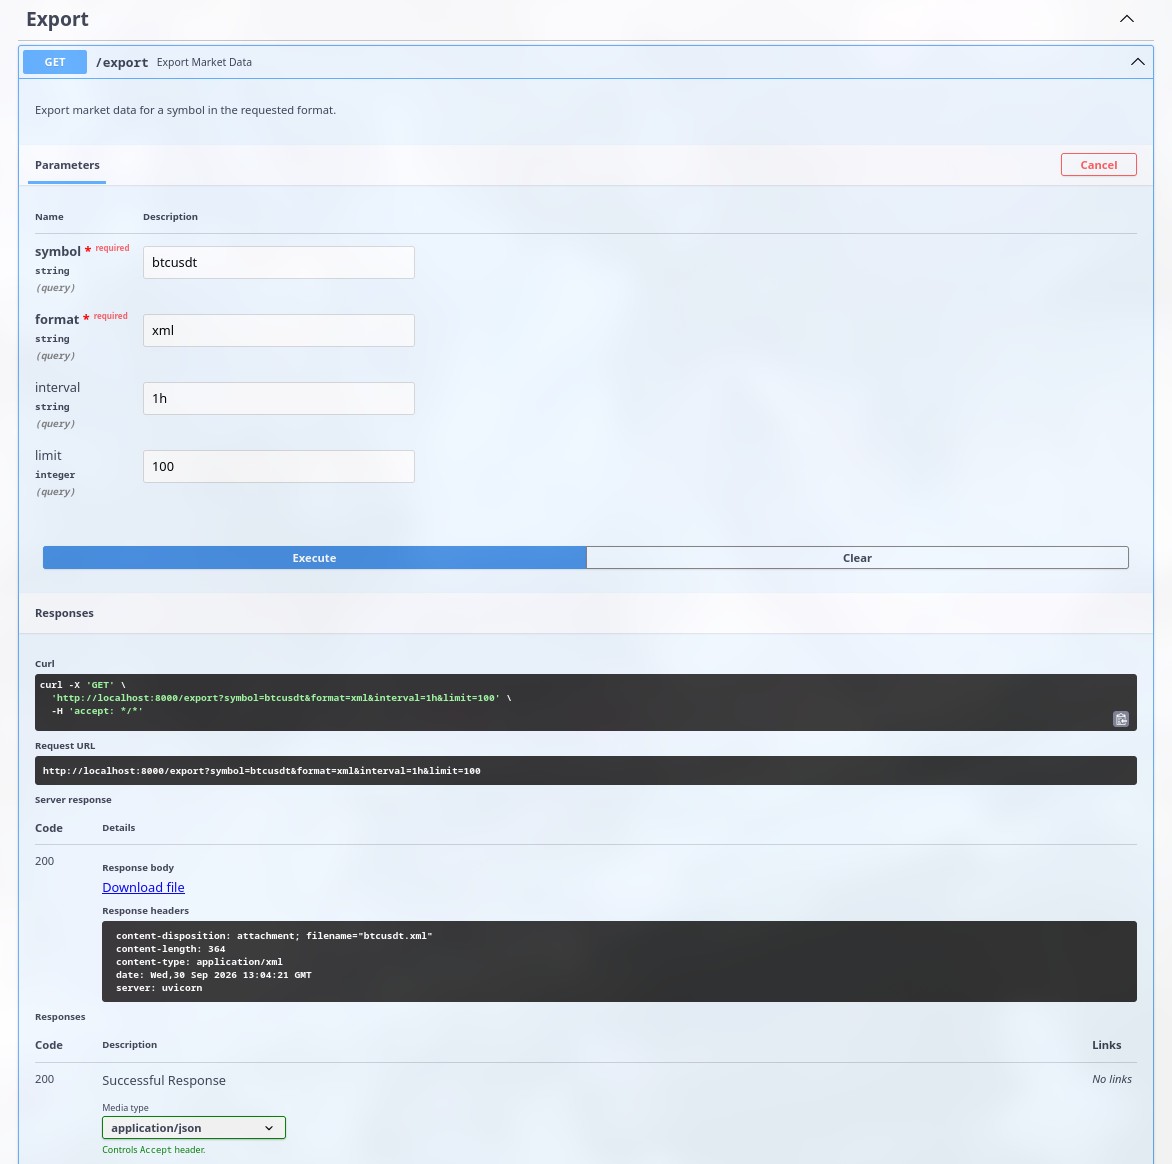
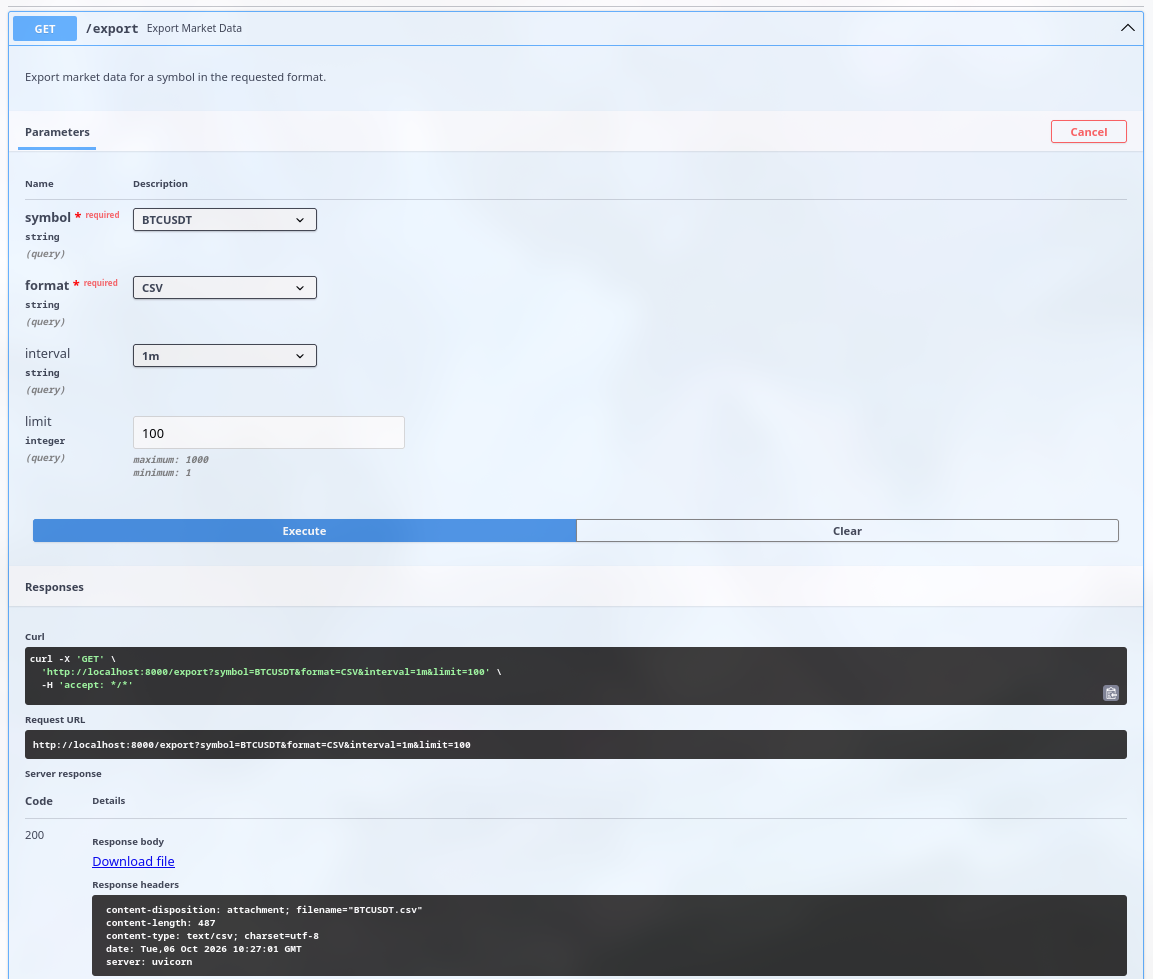
fix: added protection for database and backend processing

diff --git a/backend/api-server/src/routers/markets.py b/backend/api-server/src/routers/markets.py
@@ -1,12 +1,11 @@
 import time
 from typing import List
-from fastapi import Depends, APIRouter
+from fastapi import Depends, APIRouter, Query
 from sqlalchemy.ext.asyncio import AsyncSession
-from pydantic import PositiveInt
 import redis.asyncio as aredis
 
 from database import get_async_session
-from utils import CandleValidation, get_redis
+from utils import CandleValidation, get_redis, Symbol, Interval
 from config import DAY_MS, HOURS_MS, SYMBOLS
 from routers import fetch_candles
 
@@ -58,9 +57,9 @@ async def   get_watchlist(r: aredis.Redis = Depends(get_redis)):
 # HTTP Ticker, main graph (Database)
 @router.get("/{symbol}/candles", response_model=List[CandleValidation])
 async def   get_candles(
-    symbol: str,
-    interval: str = "1m",
-    limit: PositiveInt = 100,
+    symbol: Symbol,
+    interval: Interval = "1m",
+    limit: int = Query(100, ge=1, le=1000),
     session: AsyncSession = Depends(get_async_session)
 ):
     """Collect the last x ticks (default 100) from the table "market_candles" with a given interval (default 1-min)"""

diff --git a/backend/api-server/src/export/exporter.py b/backend/api-server/src/export/exporter.py
@@ -3,14 +3,13 @@ import io
 import xml.etree.ElementTree as et
 import logging
 
-from fastapi import APIRouter, Depends
+from fastapi import APIRouter, Depends, Query, Request
 from fastapi.responses import Response
 from sqlalchemy.ext.asyncio import AsyncSession
-from pydantic import PositiveInt
 
 from routers import fetch_candles
 from database import get_async_session
-from utils import CandleValidation
+from utils import CandleValidation, Format, Symbol, Interval, limiter
 
 
 logger = logging.getLogger(__name__)
@@ -19,11 +18,13 @@ router = APIRouter(prefix="/export", tags=["Export"])
 
 
 @router.get("")
+@limiter.limit("20/minute")
 async def export_market_data(
-    symbol: str,
-    format: str,
-    interval: str = "1m",
-    limit: PositiveInt = 100,
+    request: Request,
+    symbol: Symbol,
+    format: Format,
+    interval: Interval = "1m",
+    limit: int = Query(100, ge=1, le=1000),
     session: AsyncSession = Depends(get_async_session)
 ):
     """Export market data for a symbol in the requested format."""

diff --git a/backend/api-server/src/main.py b/backend/api-server/src/main.py
@@ -6,13 +6,17 @@ from fastapi import FastAPI, Request
 from fastapi.responses import JSONResponse
 from sqlalchemy.exc import SQLAlchemyError
 import redis.asyncio as aredis
+from slowapi import _rate_limit_exceeded_handler
+from slowapi.errors import RateLimitExceeded
+from slowapi.middleware import SlowAPIMiddleware
 from utils.monitoring import setup_monitoring
 
 from config import REDIS_PORT, REDIS_HOST, REDIS_PASSWORD
 from urllib.parse import quote_plus
-from utils import manager
+from utils import manager, limiter
 from routers import markets, websockets
 from export import exporter
+
 
 logging.basicConfig(
 	level=logging.INFO,
@@ -88,8 +92,10 @@ async def   lifespan(app: FastAPI):
     await app.state.redis_client.aclose()
     await app.state.redis_pool.disconnect()
 
-
 app = FastAPI(title="Stock Market Data API", lifespan=lifespan)
+app.state.limiter = limiter
+app.add_exception_handler(RateLimitExceeded, _rate_limit_exceeded_handler)
+app.add_middleware(SlowAPIMiddleware)
 
 setup_monitoring(app)
 

diff --git a/backend/api-server/src/database/orm_db.py b/backend/api-server/src/database/orm_db.py
@@ -15,8 +15,8 @@ logging.getLogger("sqlalchemy.engine").setLevel(logging.INFO)
 engine = create_async_engine(
     DB_URL,
     echo=False,
-    pool_size=10,
-    max_overflow=20,
+    pool_size=5,
+    max_overflow=5,
     pool_pre_ping=True,
 )
 

diff --git a/backend/data-ingestion/src/storage/postgres/orm_db.py b/backend/data-ingestion/src/storage/postgres/orm_db.py
@@ -10,8 +10,8 @@ logging.getLogger("sqlalchemy.engine").setLevel(logging.WARNING)
 engine = create_engine(
     DB_URL,
     echo=False,
-    pool_size=10,
-    max_overflow=20,
+    pool_size=5,
+    max_overflow=5,
     pool_pre_ping=True,
 )
 

diff --git a/backend/api-server/src/utils/valid_argument.py b/backend/api-server/src/utils/valid_argument.py
@@ -1,0 +1,6 @@
+from typing import Literal
+
+
+Format = Literal["JSON", "CSV", "XML"]
+Symbol = Literal["BTCUSDT", "ETHUSDT", "SOLUSDT", "XRPUSDT", "ADAUSDT"]
+Interval = Literal["1m", "15m", "1h", "4h", "1d", "1w"]

diff --git a/backend/api-server/src/routers/websockets.py b/backend/api-server/src/routers/websockets.py
@@ -1,5 +1,5 @@
 from fastapi import WebSocket, WebSocketDisconnect, APIRouter
-from utils import manager
+from utils import manager, limiter
 import logging
 
 logger = logging.getLogger(__name__)

diff --git a/backend/api-server/src/utils/__init__.py b/backend/api-server/src/utils/__init__.py
@@ -1,2 +1,4 @@
 from .connection_manager import manager, get_redis
 from .schema import CandleValidation
+from .valid_argument import Symbol, Interval, Format
+from .limiter import limiter

diff --git a/backend/api-server/src/utils/limiter.py b/backend/api-server/src/utils/limiter.py
@@ -1,0 +1,5 @@
+from slowapi import Limiter
+from slowapi.util import get_remote_address
+
+
+limiter = Limiter(key_func=get_remote_address)
